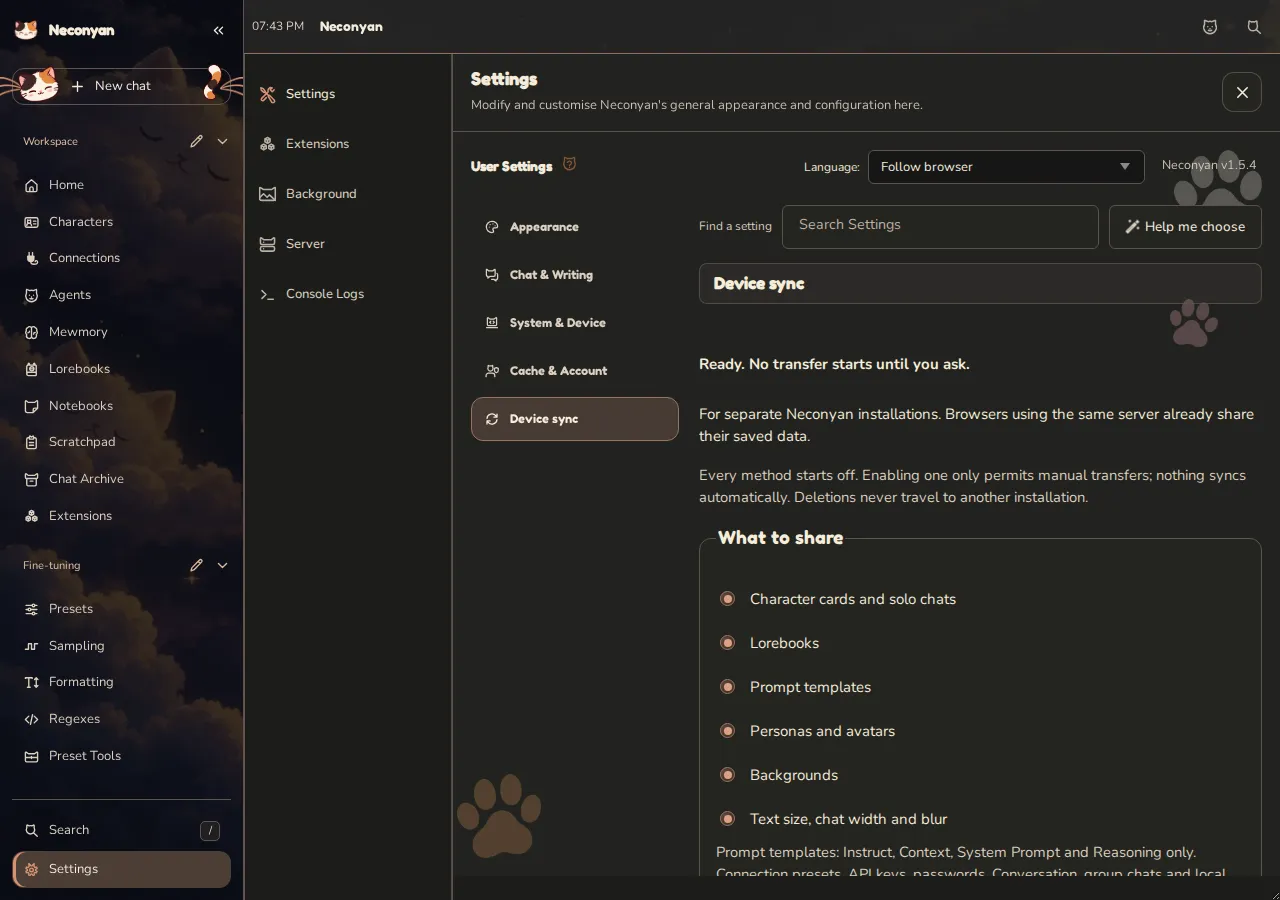
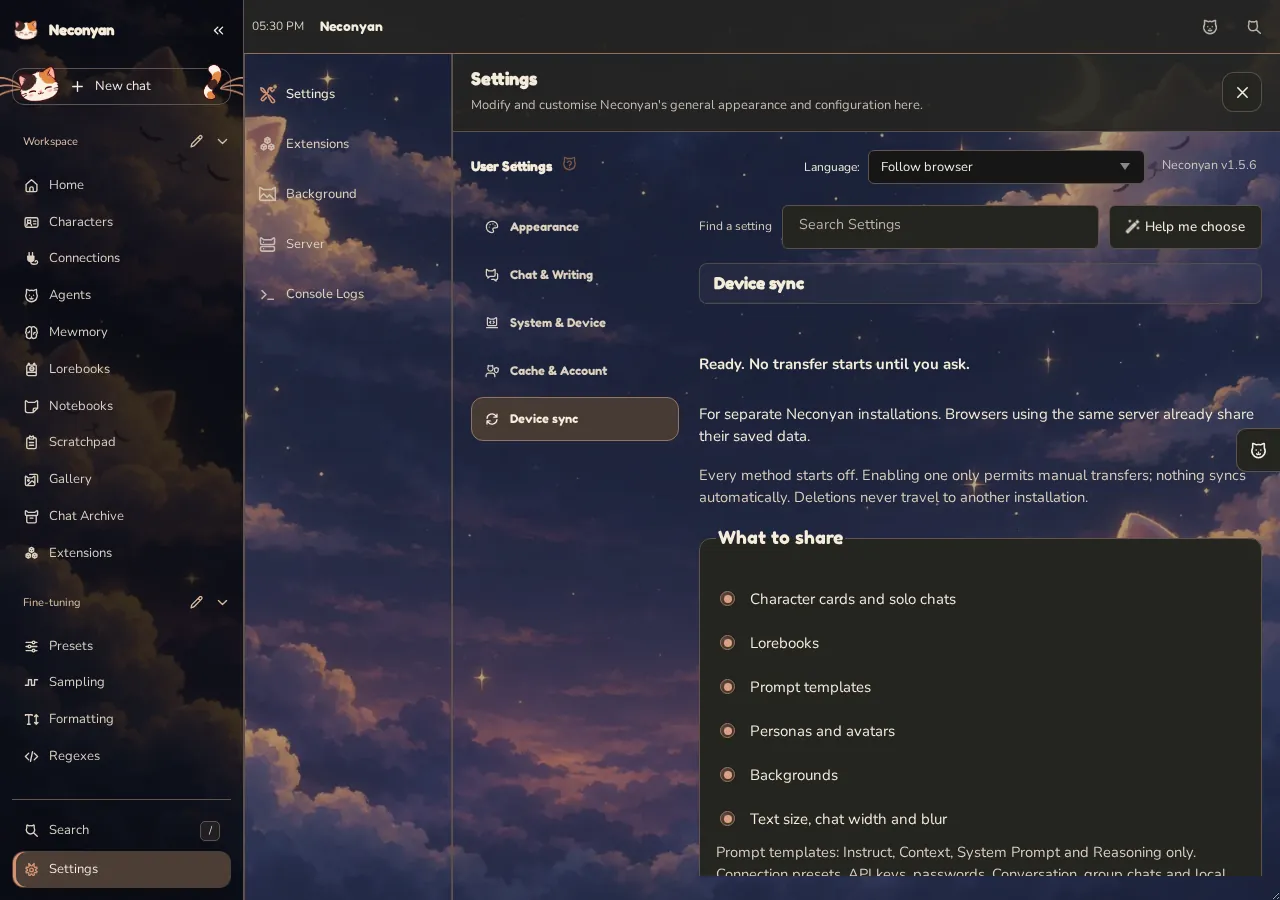
docs(readme): refresh desktop and phone screenshots

diff --git a/.github/readme.md b/.github/readme.md
@@ -40,7 +40,7 @@ Your character cards, chats, lorebooks and presets use familiar SillyTavern form
   <img src="../docs/readme/banner-modes.webp" alt="Modes">
 </p>
 
-Desktop and phone screenshots from 1.5.4 and 1.5.5, using demo chats and notes with the bundled assistants.
+Desktop and phone screenshots captured on 16 November 2026, using demo chats and notes with the bundled assistants and the default Calico Dark colours.
 
 ### Home
 

diff --git a/README.md b/README.md
@@ -38,7 +38,7 @@ Your character cards, chats, lorebooks and presets use familiar SillyTavern form
   <img src="docs/readme/banner-modes.webp" alt="Modes">
 </p>
 
-Desktop and phone screenshots from 1.5.4 and 1.5.5, using demo chats and notes with the bundled assistants.
+Desktop and phone screenshots captured on 16 November 2026, using demo chats and notes with the bundled assistants and the default Calico Dark colours.
 
 ### Home
 
